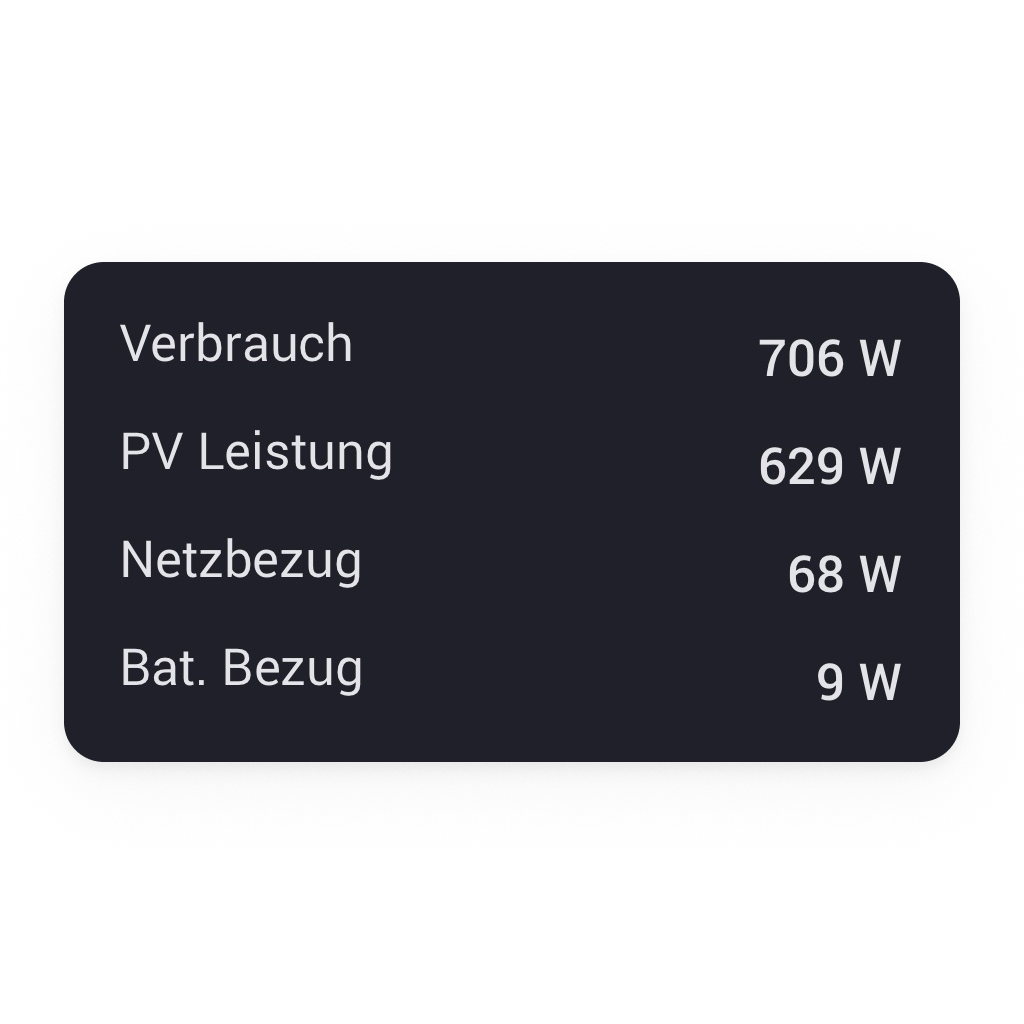
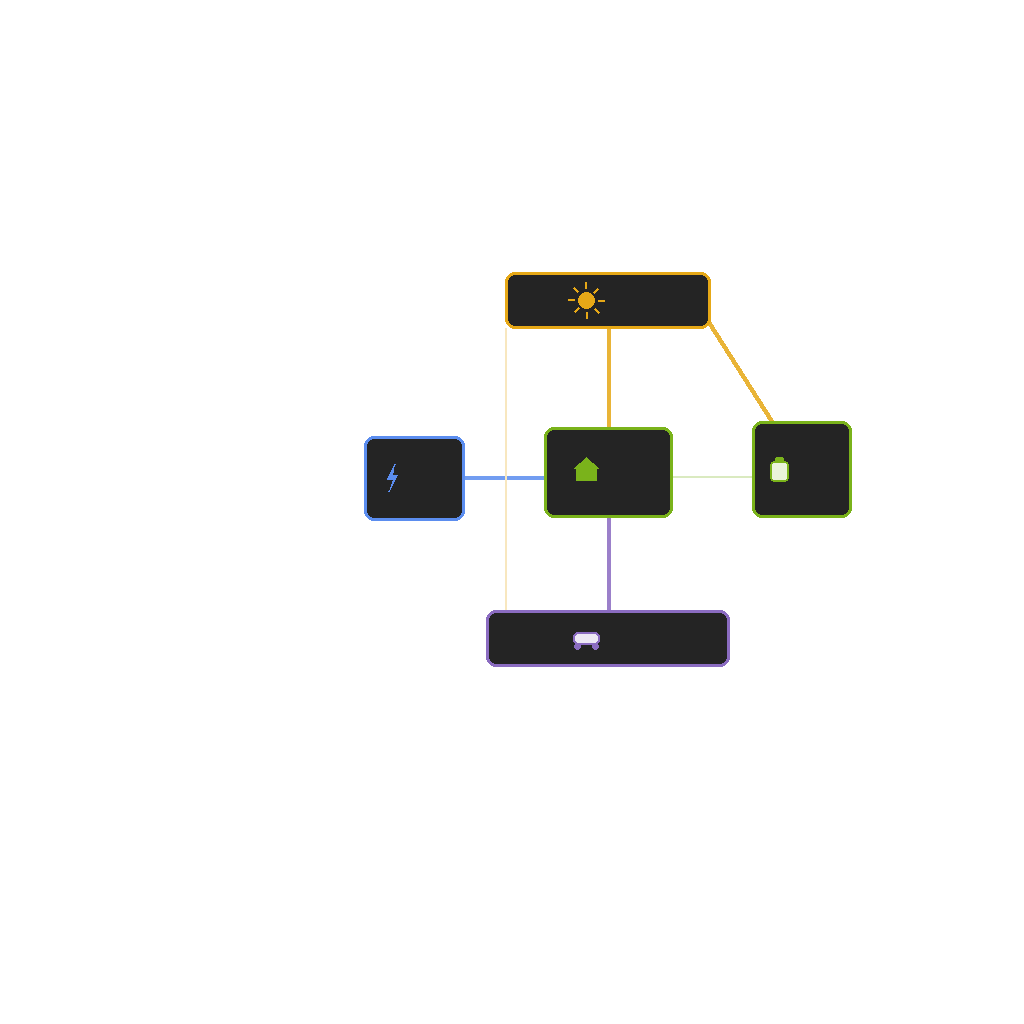
v1.8.10: Widget-Previews für App Store (Athom-Richtlinien)
Replace widget preview screenshots with simplified graphics without text,
per Athom App Store guidelines §1.10.

diff --git a/widgets/generate-previews.py b/widgets/generate-previews.py
@@ -1,0 +1,275 @@
+#!/usr/bin/env python3
+"""Generate Athom-compliant widget previews (no text, no screenshots)."""
+
+from __future__ import annotations
+
+from pathlib import Path
+
+from PIL import Image, ImageDraw, ImageFilter
+
+SIZE = 1024
+ROOT = Path(__file__).resolve().parent
+
+COLORS = {
+    "pv": "#E6A817",
+    "house": "#7AB31B",
+    "grid": "#5B8DEF",
+    "battery": "#7AB31B",
+    "wallbox": "#8B6CC1",
+}
+
+
+def hex_rgb(color: str) -> tuple[int, int, int]:
+    color = color.lstrip("#")
+    return tuple(int(color[i : i + 2], 16) for i in (0, 2, 4))
+
+
+def rgba(color: str, alpha: int) -> tuple[int, int, int, int]:
+    r, g, b = hex_rgb(color)
+    return r, g, b, alpha
+
+
+def rounded_rect(
+    draw: ImageDraw.ImageDraw,
+    box: tuple[int, int, int, int],
+    radius: int,
+    *,
+    fill: tuple[int, int, int, int] | None = None,
+    outline: tuple[int, int, int, int] | None = None,
+    width: int = 2,
+) -> None:
+    draw.rounded_rectangle(box, radius=radius, fill=fill, outline=outline, width=width)
+
+
+def draw_shadow(base: Image.Image, box: tuple[int, int, int, int], radius: int, blur: int = 18) -> None:
+    x0, y0, x1, y1 = box
+    w, h = x1 - x0, y1 - y0
+    shadow = Image.new("RGBA", (w + blur * 2, h + blur * 2), (0, 0, 0, 0))
+    sdraw = ImageDraw.Draw(shadow)
+    sdraw.rounded_rectangle(
+        (blur, blur, blur + w, blur + h),
+        radius=radius,
+        fill=(0, 0, 0, 55),
+    )
+    shadow = shadow.filter(ImageFilter.GaussianBlur(blur))
+    base.alpha_composite(shadow, (x0 - blur, y0 - blur + 8))
+
+
+def draw_sun(draw: ImageDraw.ImageDraw, cx: int, cy: int, color: str, scale: float = 1.0) -> None:
+    r = int(7 * scale)
+    draw.ellipse((cx - r, cy - r, cx + r, cy + r), fill=rgba(color, 255))
+    for angle in range(0, 360, 45):
+        import math
+
+        rad = math.radians(angle)
+        x1 = cx + int(math.cos(rad) * (r + 4 * scale))
+        y1 = cy + int(math.sin(rad) * (r + 4 * scale))
+        x2 = cx + int(math.cos(rad) * (r + 9 * scale))
+        y2 = cy + int(math.sin(rad) * (r + 9 * scale))
+        draw.line((x1, y1, x2, y2), fill=rgba(color, 255), width=max(2, int(2 * scale)))
+
+
+def draw_house(draw: ImageDraw.ImageDraw, cx: int, cy: int, color: str, scale: float = 1.0) -> None:
+    w = int(18 * scale)
+    h = int(14 * scale)
+    roof_h = int(10 * scale)
+    base = [
+        (cx - w // 2, cy + h // 2),
+        (cx + w // 2, cy + h // 2),
+        (cx + w // 2, cy - h // 4),
+        (cx - w // 2, cy - h // 4),
+    ]
+    roof = [
+        (cx - w // 2 - 2, cy - h // 4),
+        (cx, cy - h // 4 - roof_h),
+        (cx + w // 2 + 2, cy - h // 4),
+    ]
+    draw.polygon(base, fill=rgba(color, 255))
+    draw.polygon(roof, fill=rgba(color, 255))
+
+
+def draw_lightning(draw: ImageDraw.ImageDraw, cx: int, cy: int, color: str, scale: float = 1.0) -> None:
+    s = scale
+    pts = [
+        (cx + 2 * s, cy - 12 * s),
+        (cx - 4 * s, cy + 1 * s),
+        (cx + 1 * s, cy + 1 * s),
+        (cx - 2 * s, cy + 12 * s),
+        (cx + 5 * s, cy - 2 * s),
+        (cx, cy - 2 * s),
+    ]
+    draw.polygon(pts, fill=rgba(color, 255))
+
+
+def draw_battery(draw: ImageDraw.ImageDraw, cx: int, cy: int, color: str, scale: float = 1.0) -> None:
+    w = int(16 * scale)
+    h = int(22 * scale)
+    cap_w = int(8 * scale)
+    cap_h = int(4 * scale)
+    body = (cx - w // 2, cy - h // 2 + cap_h, cx + w // 2, cy + h // 2)
+    cap = (cx - cap_w // 2, cy - h // 2, cx + cap_w // 2, cy - h // 2 + cap_h)
+    rounded_rect(draw, body, int(4 * scale), fill=rgba(color, 40), outline=rgba(color, 255), width=max(2, int(2 * scale)))
+    rounded_rect(draw, cap, int(2 * scale), fill=rgba(color, 255))
+
+
+def draw_car(draw: ImageDraw.ImageDraw, cx: int, cy: int, color: str, scale: float = 1.0) -> None:
+    w = int(24 * scale)
+    h = int(12 * scale)
+    body = (cx - w // 2, cy - h // 2, cx + w // 2, cy + h // 2)
+    rounded_rect(draw, body, int(5 * scale), fill=rgba(color, 40), outline=rgba(color, 255), width=max(2, int(2 * scale)))
+    wheel_r = int(3 * scale)
+    for wx in (cx - w // 3, cx + w // 3):
+        draw.ellipse(
+            (wx - wheel_r, cy + h // 2 - 1, wx + wheel_r, cy + h // 2 + wheel_r * 2 - 1),
+            fill=rgba(color, 255),
+        )
+
+
+def draw_flow_line(
+    draw: ImageDraw.ImageDraw,
+    p1: tuple[int, int],
+    p2: tuple[int, int],
+    color: str,
+    *,
+    active: bool,
+) -> None:
+    alpha = 220 if active else 70
+    width = 4 if active else 2
+    draw.line((*p1, *p2), fill=rgba(color, alpha), width=width)
+
+
+def make_canvas() -> Image.Image:
+    return Image.new("RGBA", (SIZE, SIZE), (0, 0, 0, 0))
+
+
+def palette(dark: bool) -> dict[str, tuple[int, int, int, int]]:
+    if dark:
+        return {
+            "card": (40, 40, 40, 245),
+            "card_stroke": (70, 70, 70, 180),
+            "label": (120, 120, 120, 255),
+            "value": (200, 200, 200, 255),
+            "divider": (90, 90, 90, 255),
+            "node_fill": (36, 36, 36, 255),
+        }
+    return {
+        "card": (255, 255, 255, 245),
+        "card_stroke": (220, 220, 220, 200),
+        "label": (190, 190, 190, 255),
+        "value": (210, 210, 210, 255),
+        "divider": (230, 230, 230, 255),
+        "node_fill": (255, 255, 255, 255),
+    }
+
+
+def generate_power_overview(dark: bool) -> Image.Image:
+    img = make_canvas()
+    draw = ImageDraw.Draw(img)
+    pal = palette(dark)
+
+    card = (212, 300, 812, 724)
+    draw_shadow(img, card, 28)
+    rounded_rect(draw, card, 28, fill=pal["card"], outline=pal["card_stroke"], width=2)
+
+    rows = [
+        ("house", 0.55),
+        ("pv", 0.48),
+        ("grid", 0.38),
+        ("battery", 0.42),
+        ("wallbox", 0.35),
+    ]
+    y = 360
+    row_h = 58
+    for idx, (key, value_frac) in enumerate(rows):
+        if idx == 0:
+            draw.line((260, y - 18, 764, y - 18), fill=pal["divider"], width=2)
+
+        cy = y + row_h // 2
+        dot_r = 7
+        color = COLORS[key]
+        draw.ellipse((248 - dot_r, cy - dot_r, 248 + dot_r, cy + dot_r), fill=rgba(color, 255))
+        rounded_rect(draw, (280, cy - 8, 430, cy + 8), 6, fill=pal["label"])
+        value_w = int(480 + (764 - 480) * value_frac)
+        rounded_rect(draw, (480, cy - 10, value_w, cy + 10), 6, fill=rgba(color, 90 if dark else 70))
+        rounded_rect(draw, (480, cy - 10, value_w, cy + 10), 6, outline=rgba(color, 180), width=2)
+        y += row_h
+
+    return img
+
+
+def generate_live_energy_view(dark: bool) -> Image.Image:
+    img = make_canvas()
+    draw = ImageDraw.Draw(img)
+    pal = palette(dark)
+
+    # Node layout (scaled from widget viewBox)
+    ox, oy = 352, 260
+    sx, sy = 1.6, 1.55
+
+    def pt(x: float, y: float) -> tuple[int, int]:
+        return int(ox + x * sx), int(oy + y * sy)
+
+    nodes = {
+        "pv": {"box": (96, 8, 224, 44), "icon": draw_sun, "color": COLORS["pv"]},
+        "house": {"box": (120, 108, 200, 166), "icon": draw_house, "color": COLORS["house"]},
+        "grid": {"box": (8, 114, 70, 168), "icon": draw_lightning, "color": COLORS["grid"]},
+        "battery": {"box": (250, 104, 312, 166), "icon": draw_battery, "color": COLORS["battery"]},
+        "wallbox": {"box": (84, 226, 236, 262), "icon": draw_car, "color": COLORS["wallbox"]},
+    }
+
+    lines = [
+        ("pv", "house", COLORS["pv"], True),
+        ("pv", "battery", COLORS["pv"], True),
+        ("grid", "house", COLORS["grid"], True),
+        ("battery", "house", COLORS["battery"], False),
+        ("house", "wallbox", COLORS["wallbox"], True),
+        ("pv", "wallbox", COLORS["pv"], False),
+    ]
+
+    def center(box: tuple[float, float, float, float]) -> tuple[int, int]:
+        x0, y0, x1, y1 = box
+        return pt((x0 + x1) / 2, (y0 + y1) / 2)
+
+    line_coords = {
+        ("pv", "house"): (pt(160, 44), pt(160, 108)),
+        ("pv", "battery"): (pt(214, 26), pt(262, 104)),
+        ("grid", "house"): (pt(70, 140), pt(120, 140)),
+        ("battery", "house"): (pt(250, 140), pt(200, 140)),
+        ("house", "wallbox"): (pt(160, 166), pt(160, 226)),
+        ("pv", "wallbox"): (pt(96, 44), pt(96, 226)),
+    }
+
+    for key_a, key_b, color, active in lines:
+        draw_flow_line(draw, line_coords[(key_a, key_b)][0], line_coords[(key_a, key_b)][1], color, active=active)
+
+    for spec in nodes.values():
+        x0, y0, x1, y1 = spec["box"]
+        box = (*pt(x0, y0), *pt(x1, y1))
+        rounded_rect(
+            draw,
+            box,
+            10,
+            fill=pal["node_fill"],
+            outline=rgba(spec["color"], 255),
+            width=3,
+        )
+        cx, cy = center(spec["box"])
+        spec["icon"](draw, cx - int(14 * sx), cy, spec["color"], scale=1.15)
+
+    return img
+
+
+def main() -> None:
+    outputs = {
+        ROOT / "power-overview" / "preview-light.png": generate_power_overview(False),
+        ROOT / "power-overview" / "preview-dark.png": generate_power_overview(True),
+        ROOT / "live-energy-view" / "preview-light.png": generate_live_energy_view(False),
+        ROOT / "live-energy-view" / "preview-dark.png": generate_live_energy_view(True),
+    }
+    for path, image in outputs.items():
+        image.save(path, "PNG")
+        print(f"Wrote {path}")
+
+
+if __name__ == "__main__":
+    main()
